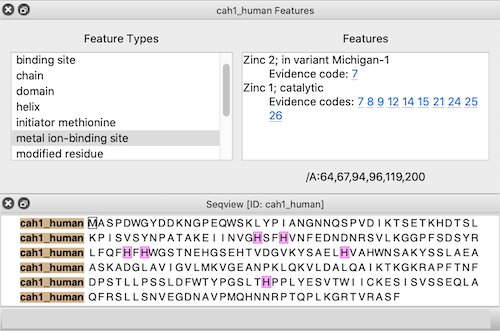
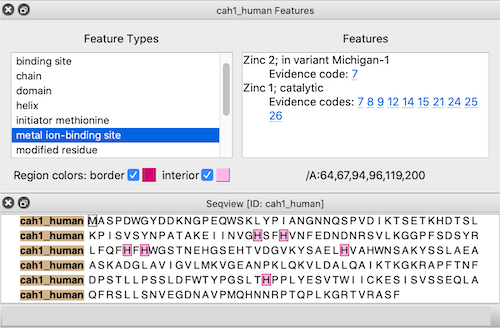
UniProt features dialog now has region border/interior color controls.

diff --git a/docs/user/tools/sequenceviewer.html b/docs/user/tools/sequenceviewer.html
@@ -227,13 +227,19 @@ can be reshown at any time by choosing <b>Sequence Features...</b>
 from the <a href="#context">context menu</a>.
 </p><p>
 Choosing a feature type on the left side of the dialog shows the regions
-for all features of that type; if there are multiple features of that type
-listed on the right, clicking any one shows the region specific to
-the individual feature. If a structure is 
-<a href="#association">associated</a> with the sequence, 
-the corresponding structure residues are reported in the bottom right 
-of the dialog.
+for all features of that type; if multiple features of that type are
+listed on the right, clicking (choosing) any one shows just
+the region for the individual feature.
 </p><p>
+The border and interior colors of the currently shown feature region(s)
+can be changed by clicking the color wells and using the system color editor,
+and checkboxes allow leaving either the border or the interior uncolored.
+The automatically assigned colors may vary between different instances 
+of opening the same data.
+</p><p>
+If a structure is <a href="#association">associated</a> with the sequence, 
+the corresponding structure residues are reported in the lower right
+area of the features dialog.
 For example, the figure shows all <b>metal ion-binding site</b>
 regions in UniProt sequence <a href="https://www.uniprot.org/uniprot/P00915"
 target="_blank">cah1_human</a>, corresponding to residues
